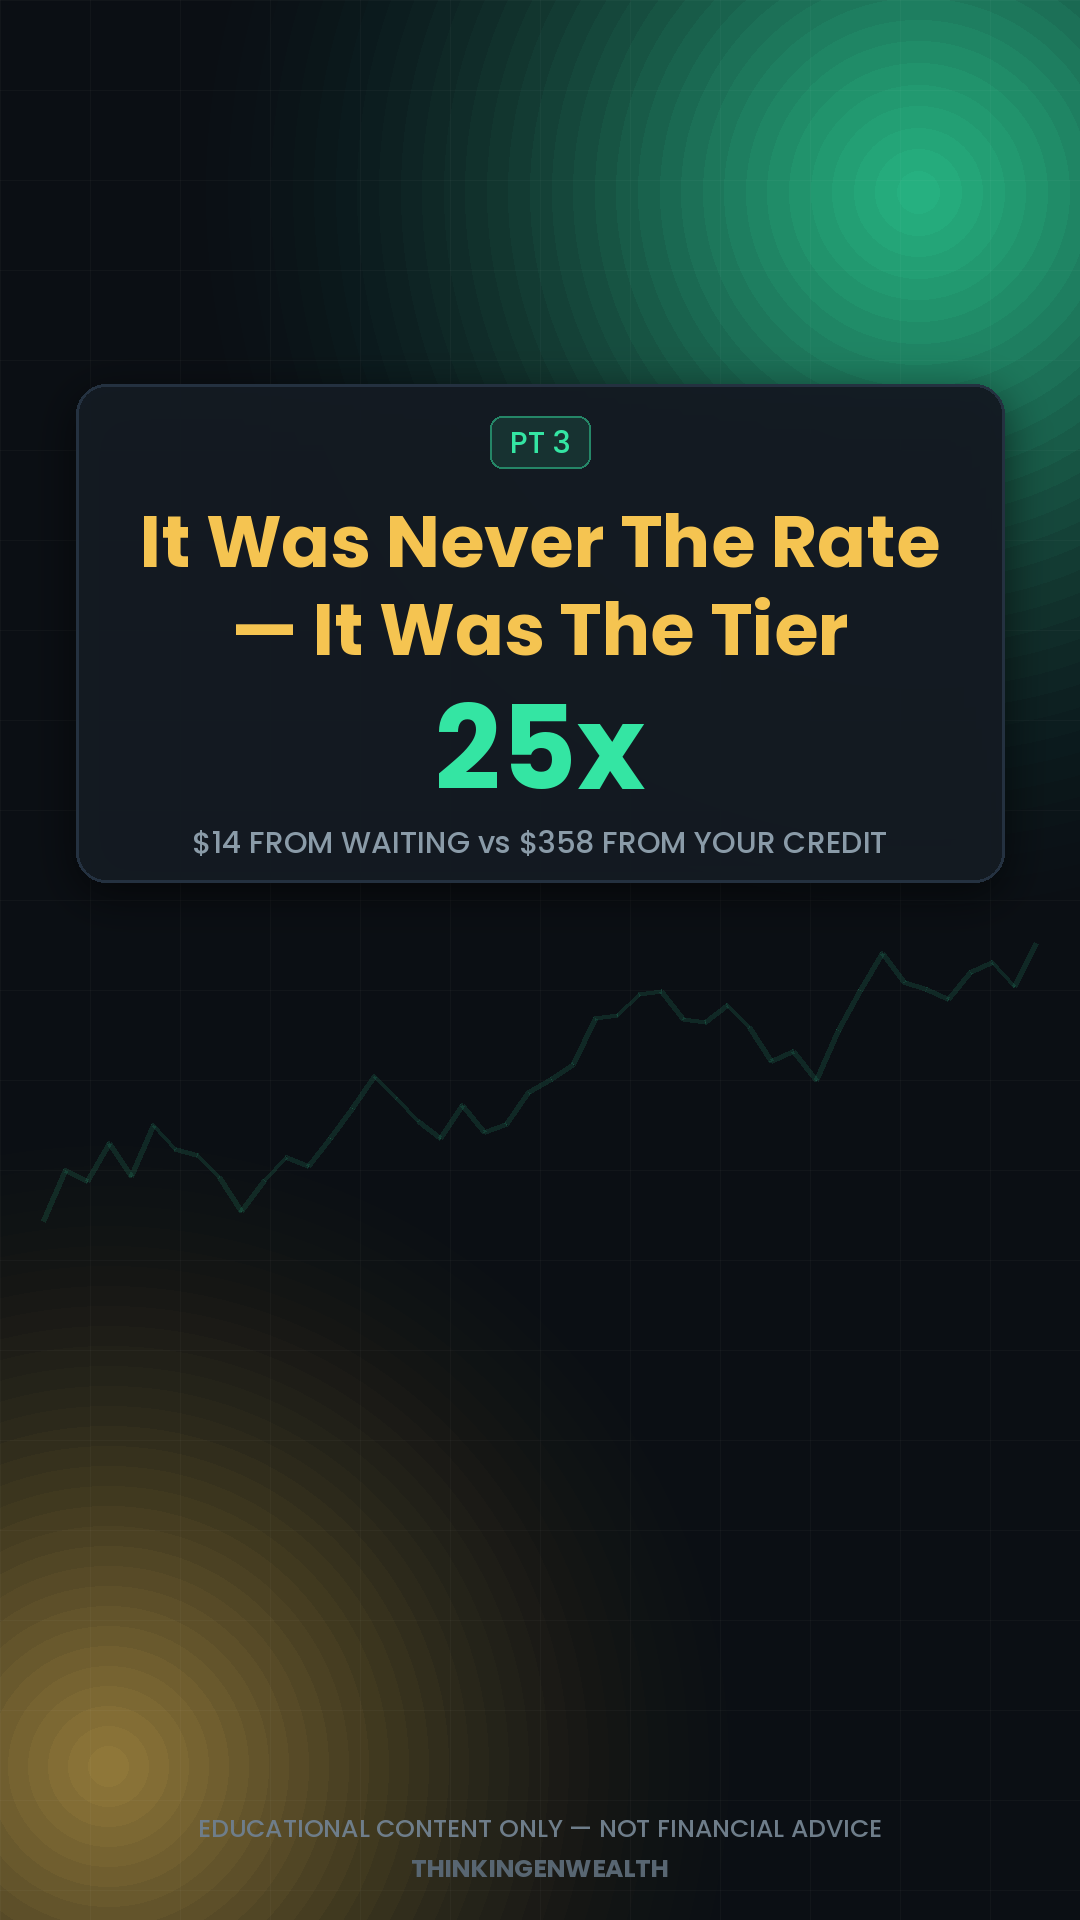
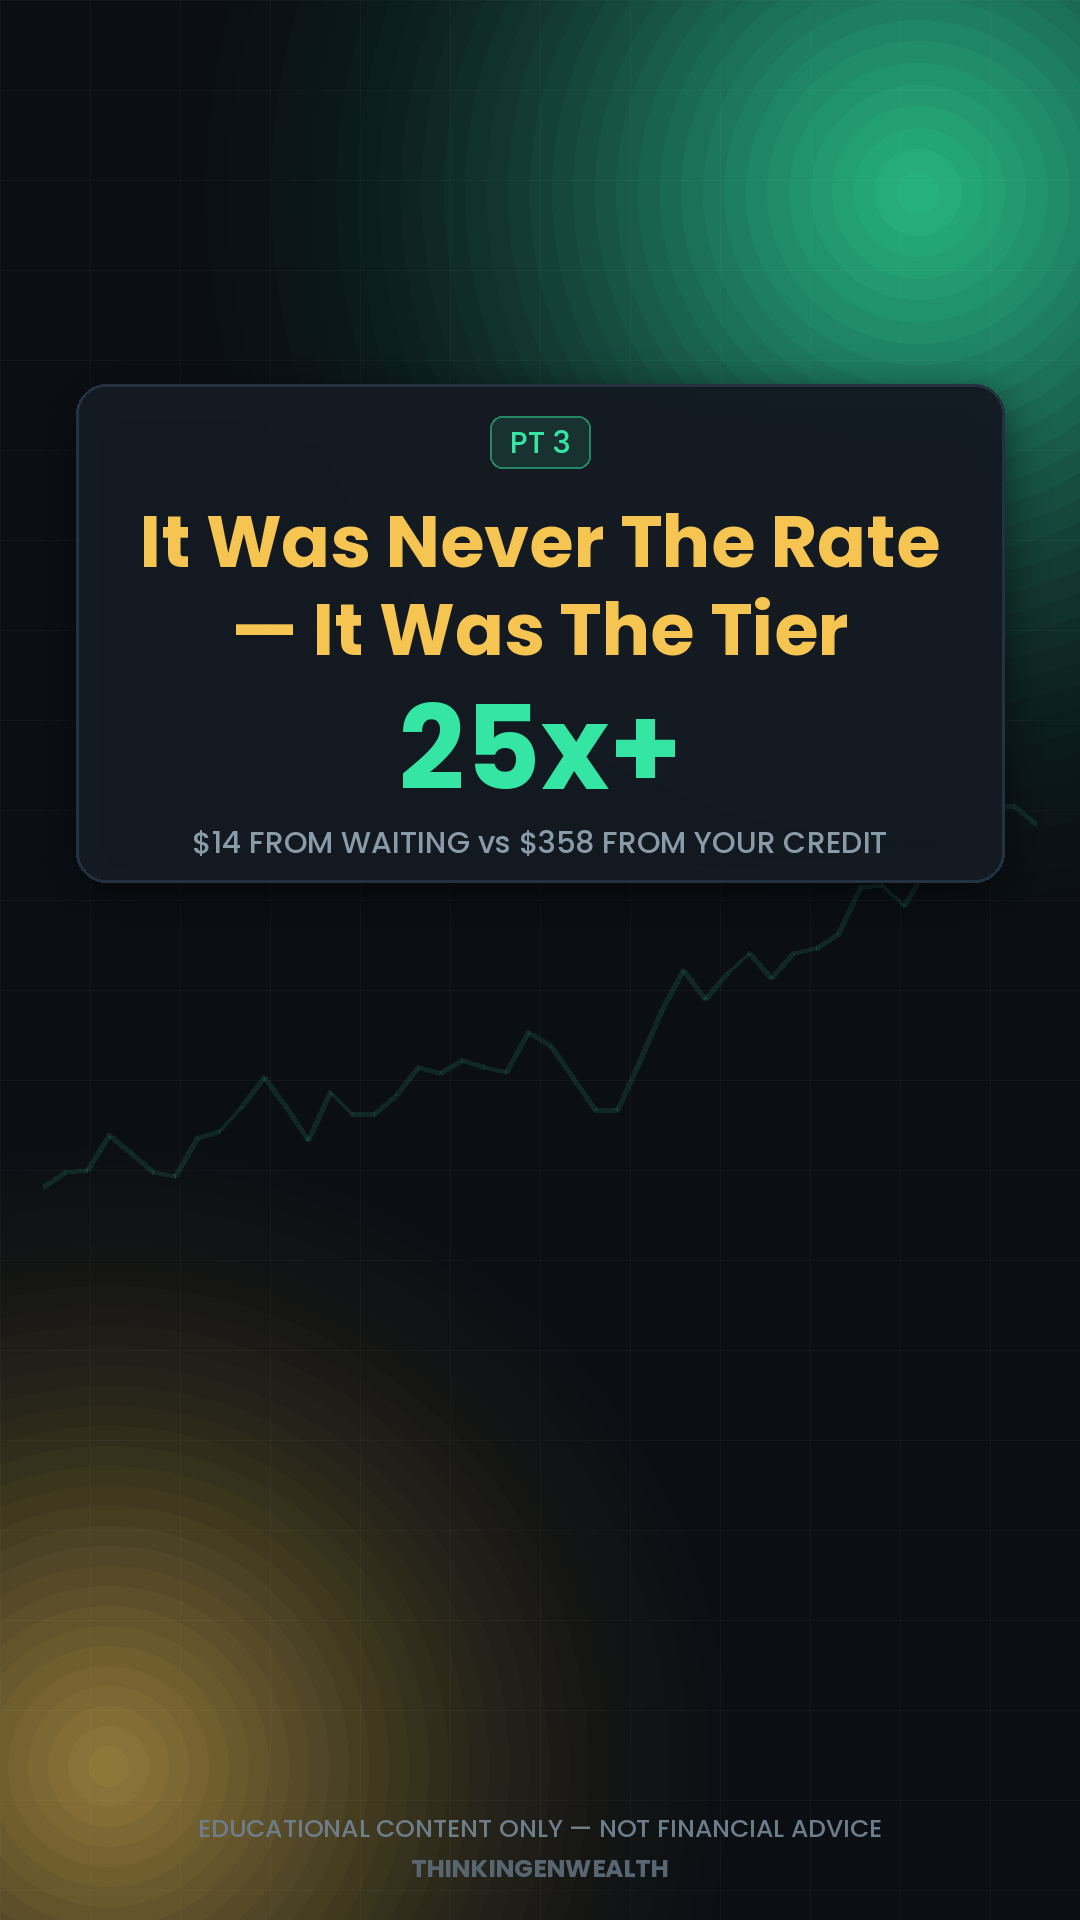
TGW calendar — week of Aug 3-9, 2026 (final)

diff --git a/index.html b/index.html
@@ -591,7 +591,7 @@ The second one, the household survey, calls households and asks people about the
 
 Two different groups of people, two different questions. Which is exactly why they sometimes tell opposite stories — and why arguing about which one is 'the real number' misses it. You read them together, like two witnesses to the same event.
 
-This morning: payrolls [FILL LIVE] against a forecast of about eighty-seven thousand five hundred, and unemployment at [FILL LIVE] percent against a forecast of four point three.
+This morning: payrolls [FILL LIVE] against a forecast of about eighty-seven thousand — though forecasts range from about seventy-five to a hundred and five thousand depending on the survey, and unemployment at [FILL LIVE] percent against a forecast of four point three.
 
 But the headline number on its own is close to meaningless without the next part.
 
@@ -688,7 +688,7 @@ CAPTION: The jobs report is two different surveys on one page, and the line that
 <div class="smaprow"><div class="ts">0:12–0:30</div><div class="bn">Rising · Pt 1</div><div class="ln">A whole year of waiting saved $14/month. <i>→ SAT_02</i></div></div>
 <div class="smaprow"><div class="ts">0:30–0:50</div><div class="bn">Rising · Pt 2</div><div class="ln">The rate is rentable; the price is permanent. <i>→ SAT_03 · steelman</i></div></div>
 <div class="smaprow"><div class="ts">0:50–0:54</div><div class="bn">Re-hook</div><div class="ln">"But here's where he's actually right—" <i>→ zoom</i></div></div>
-<div class="smaprow"><div class="ts">0:54–1:22</div><div class="bn">Payoff · Pt 3</div><div class="ln">$14 vs $358 = 25×. Wait for your tier, not the Fed. <i>→ SAT_04 + calculator · CLOSES</i></div></div>
+<div class="smaprow"><div class="ts">0:54–1:22</div><div class="bn">Payoff · Pt 3</div><div class="ln">$14 vs $358 = more than 25×. Wait for your tier, not the Fed. <i>→ SAT_04 + calculator · CLOSES</i></div></div>
 <div class="smaprow"><div class="ts">1:22–end</div><div class="bn">Loop-close</div><div class="ln">Literal callback: <b class="gold">"it's not close"</b> → comment-trigger CTA → D Waugh sign-off.</div></div>
 </div>
 
@@ -776,7 +776,7 @@ Three hundred fifty-eight dollars a month. Between two people. Same house.
 
 Fourteen dollars from waiting a year on the market. Three hundred fifty-eight dollars from your own credit report.
 
-That's twenty-five times the difference. And one of them you control this month.
+That's more than twenty-five times the difference — call it twenty-five-plus. And one of them you control this month.
 
 So the verdict is: he's right that you should wait — and wrong about what you're waiting for. Don't wait for the Fed. Wait until your utilization is under thirty percent and your report is clean. That's the wait that pays.
 
@@ -799,7 +799,7 @@ Like I said. It's not close.
 "It's D Waugh, I'm outta here."
 
 ────────────────────────────
-CAPTION (IG-FIRST — post native Saturday): "Wait for rates to drop." I ran it. Waiting a full year saved $14/month. Your credit tier is worth $358/month on the same house. 25×. One of those you control this month. Comment TIER for the calculator.
+CAPTION (IG-FIRST — post native Saturday): "Wait for rates to drop." I ran it. Waiting a full year saved $14/month. Your credit tier is worth $358/month on the same house. More than 25×. One of those you control this month. Comment TIER for the calculator.
 #creditscore #firsttimehomebuyer #mortgagerates #moneytok #financialliteracy</div></details>
 
 </div></div>
@@ -960,7 +960,7 @@ RE-ANCHOR → Seg 3: "So the Fed isn't your lever. Therefore the real question i
    – 760+ @ 6.66% → $2,249.19/mo
    – 620–639 @ ~8.16% → $2,607.32/mo
    – Difference: $358.13/month · $4,298/year · $128,926 over the loan. Same house, same day, same lender.
-• The comparison that lands the episode: waiting an entire year for the market to improve saved about $14/month (6.72% → 6.66%). Fixing your credit tier is worth $358/month. That's 25× — and only one of them is on a report you can pull for free tonight.
+• The comparison that lands the episode: waiting an entire year for the market to improve saved about $14/month (6.72% → 6.66%). Fixing your credit tier is worth $358/month. That's more than 25× — and only one of them is on a report you can pull for free tonight.
 • ACTION — literal steps:
    1. annualcreditreport.com — the free federal one. All three bureaus. No card.
    2. Two things only: payment history and utilization. Roughly two-thirds of the score.
@@ -976,7 +976,7 @@ RE-ANCHOR → Seg 4: "That's the number you control. But there's still a number 
 ═══ SEGMENT 4 — Friday's Jobs Report + The Answer (26:00–36:00) · Panel 4 ═══
 
 ⛔ FILL LIVE from the Fri Aug 7, 8:30am ET release (bls.gov/news.release/empsit.nr0.htm):
-   • Payrolls: [FILL LIVE] (consensus ≈ +87,500)
+   • Payrolls: [FILL LIVE] (consensus ≈ +87,500; forecasts vary ~75K–105K by survey)
    • Unemployment rate: [FILL LIVE] (consensus 4.3%, up from 4.2%)
    • Average hourly earnings y/y: [FILL LIVE] (June: +3.5%, $37.64/hr)
    • Revisions to May/June: [FILL LIVE]

diff --git a/screenshare/jobs-week-dashboard.html b/screenshare/jobs-week-dashboard.html
@@ -95,7 +95,7 @@ footer{margin-top:40px;padding-top:18px;border-top:1px solid var(--line);font-si
     <tr><td class="big gold">The gap</td><td class="mut">~1.5pp</td><td class="big gold">$358.13/mo</td><td class="gold">$128,926 over the loan</td></tr>
   </table>
   <div class="note"><b>The true cost first:</b> at 6.66% on $350,000 you pay <b>$809,710</b> over 30 years — meaning <b>$459,710 in interest alone.</b> The interest is more than the house. $1.31 of interest per $1 borrowed. Early payments are almost entirely interest — that's amortization, and it's why nobody advertises the total.</div>
-  <div class="note"><b>The comparison that lands the episode:</b> waiting a full year for the <i>market</i> to improve saved about <b class="mut">$14/month</b> (6.72% → 6.66%). Fixing your <i>credit tier</i> is worth <b>$358/month</b>. That's <b>25×</b> — and only one of them is on a report you can pull for free tonight.</div>
+  <div class="note"><b>The comparison that lands the episode:</b> waiting a full year for the <i>market</i> to improve saved about <b class="mut">$14/month</b> (6.72% → 6.66%). Fixing your <i>credit tier</i> is worth <b>$358/month</b>. That's <b>more than 25×</b> — and only one of them is on a report you can pull for free tonight.</div>
   <div class="draw">✏ DRAW: underline $128,926. Then run both tiers live in rate-ladder-dashboard.html.</div>
 </div>
 

diff --git a/screenshare/rate-ladder-dashboard.html b/screenshare/rate-ladder-dashboard.html
@@ -99,7 +99,7 @@ footer{margin-top:40px;padding-top:18px;border-top:1px solid var(--line);font-si
       <p id="ctx">Same house, same lender, same day — the only variable is the number on your credit report.</p>
     </div>
   </div>
-  <div class="note"><b>For comparison:</b> waiting a full year for the <i>market</i> to improve took you from 6.72% to 6.66% — about <b>$14/month</b> on this loan. The credit tier is worth roughly <b>25×</b> that, and it's the one you control this month.</div>
+  <div class="note"><b>For comparison:</b> waiting a full year for the <i>market</i> to improve took you from 6.72% to 6.66% — about <b>$14/month</b> on this loan. The credit tier is worth more than <b>25×</b> that, and it's the one you control this month.</div>
 </div>
 
 <div class="panel">

diff --git a/greenscreen/greenscreen-and-hooks.md b/greenscreen/greenscreen-and-hooks.md
@@ -73,7 +73,7 @@
 | 2 | `SAT/SAT_kenburns.mp4` | 0:03–0:12 — this is your first place | STAKES |
 | 3 | `SAT/SAT_02_pt1-cost-of-waiting.png` | 0:12–0:30 — $14/mo for a whole year of waiting | RISING · Pt 1 |
 | 4 | `SAT/SAT_03_pt2-refinance.png` | 0:30–0:50 — rate is rentable, price is permanent | RISING · Pt 2 |
-| 5 | `SAT/SAT_04_pt3-verdict.png` | 0:54–1:22 — 25× · $14 vs $358 | **PAYOFF · Pt 3** |
+| 5 | `SAT/SAT_04_pt3-verdict.png` | 0:54–1:22 — 25×+ · $14 vs $358 | **PAYOFF · Pt 3** |
 
 **📌 SAT_01 has a deliberate placeholder.** The sub-line reads `[ CREATOR CLAIM GOES HERE, VERBATIM ]`. On record day, screenshot the chosen clip and overlay the creator's **actual words**, credited — that's the EYL pattern Sora logged (§6): the caption box carries the *contestable claim*, never the topic.
 **⚠ Never attribute a claim to a real creator that they did not make.** If no suitable clip is found, use the unattributed framing *"The take going around right now:"* instead.
@@ -105,7 +105,7 @@
 | TUE | ✅ your first house | ✅ $358/mo · $128,926 | ✅ first home | ✅ tier calculator on screen |
 | THU | ✅ how *you* buy | ✅ 2 lines · 744.99 / 700.39 | ✅ buying on a plan, not scared | ✅ live chart, real touches |
 | FRI | ✅ your rate/raise/rent | ✅ 8:30 · +36,000 · 0.2% | ✅ your actual raise | ✅ pay-stub subtraction |
-| SAT | ✅ your first place | ✅ $14 vs $358 · 25× | ✅ first home | ✅ both sides priced |
+| SAT | ✅ your first place | ✅ $14 vs $358 · 25×+ | ✅ first home | ✅ both sides priced |
 | SUN | ✅ your family's house | ✅ $128,926 | ✅ career-stage / family (35–54 cut) | ✅ full segment of math |
 
 **Banned and avoided:** no "quit your 9-5", no price predictions, no "before it's too late", no emotional hook without a number, no borrow-to-invest framing anywhere.
